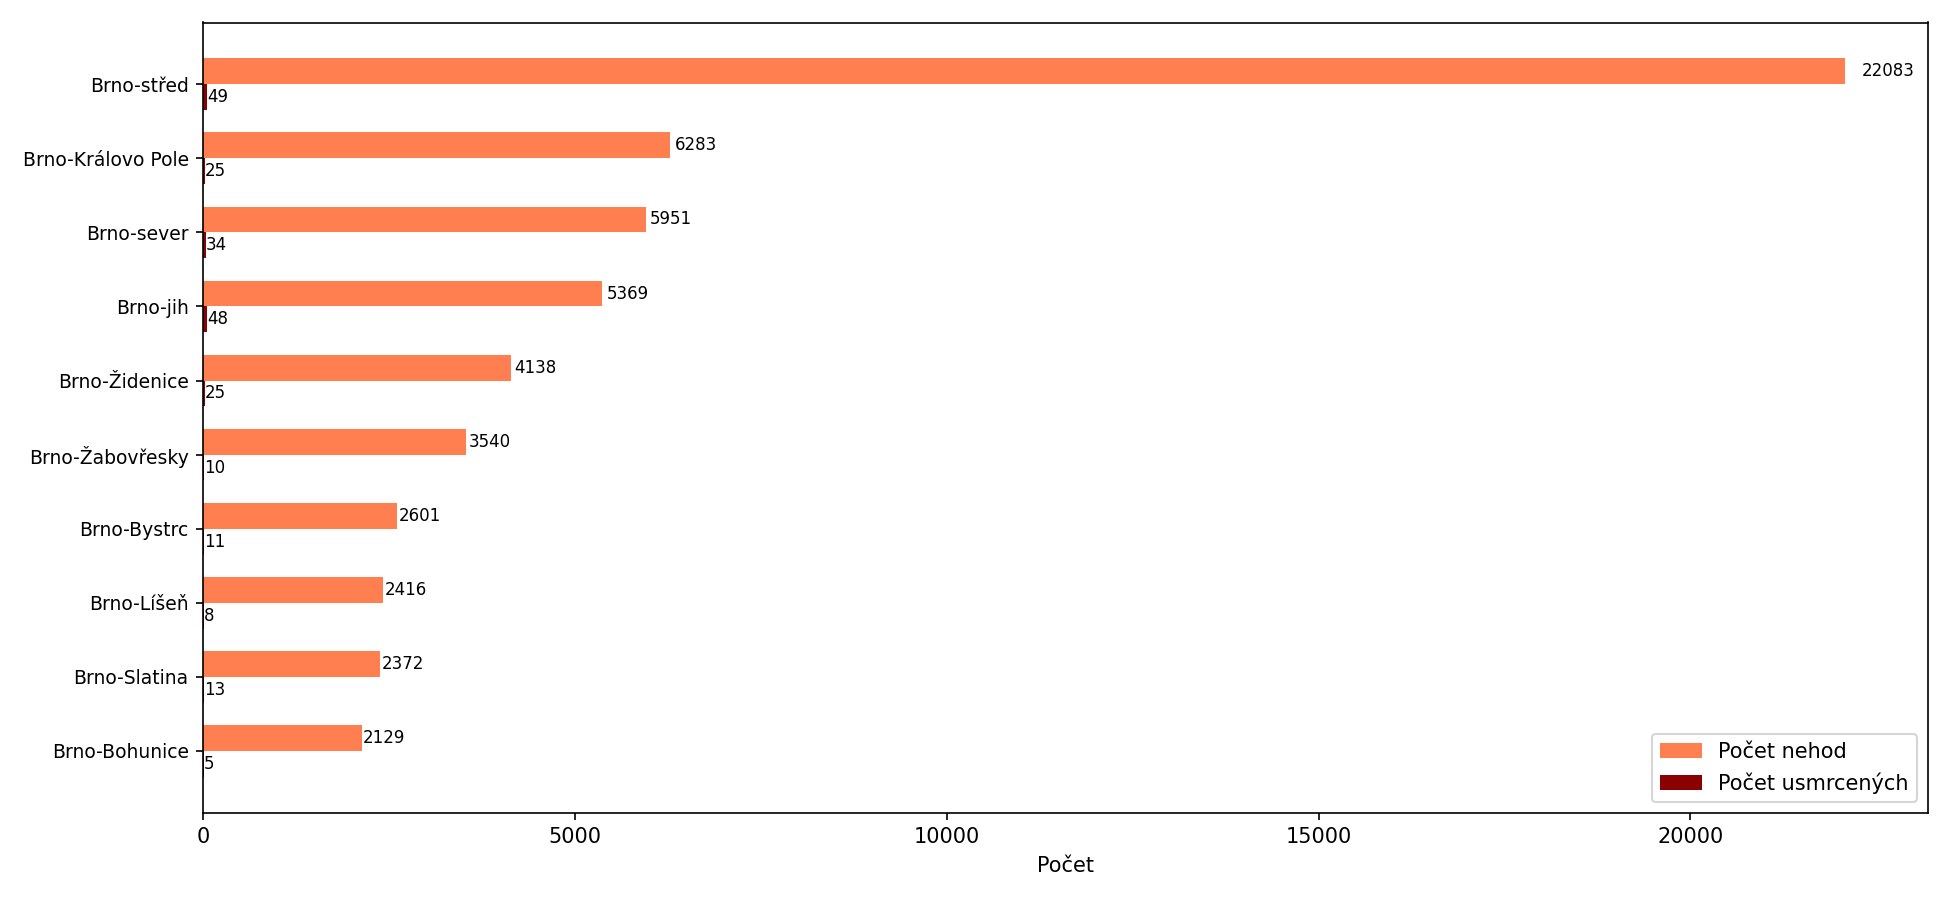
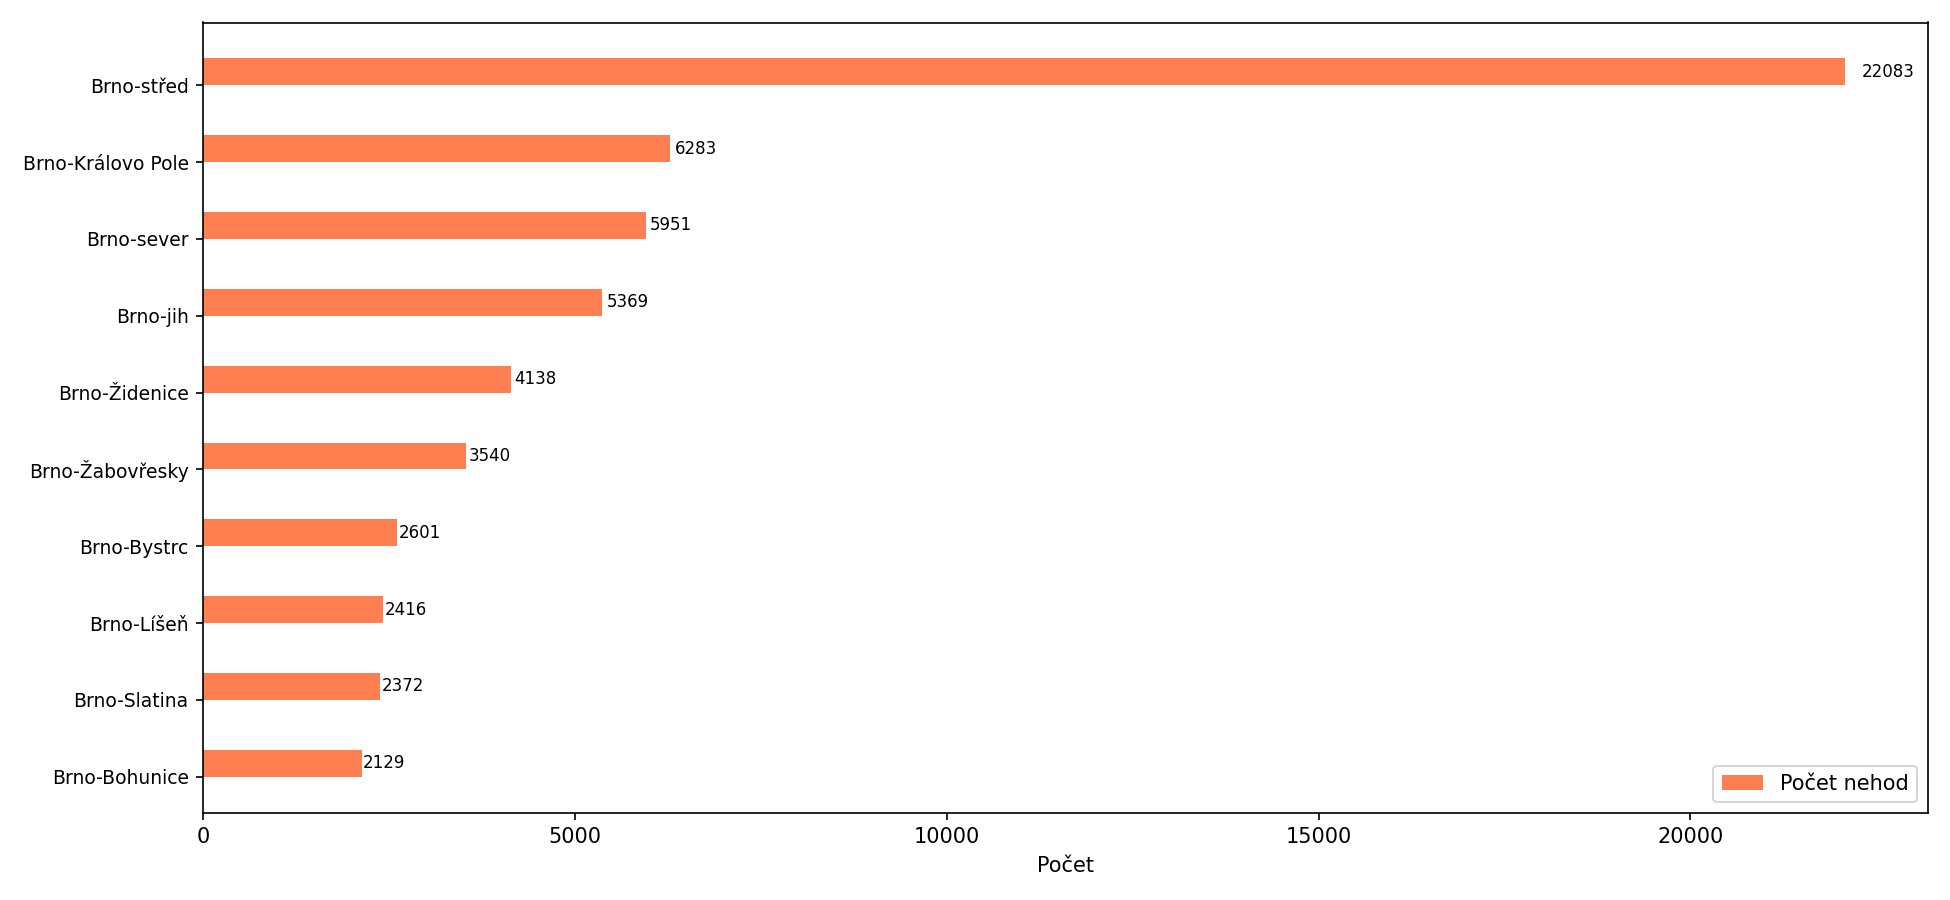
change up some graphs

diff --git a/nehodyAnalysis.py b/nehodyAnalysis.py
@@ -55,11 +55,13 @@ tiskni("ROZDĚLENÍ PODLE MĚSÍCŮ")
 tiskni("-" * 80)
 if 'mesic' in df.columns:
     mesic_stats = df['mesic'].value_counts().sort_index()
+    usmrceni_mesic = df.groupby('mesic')['usmrceno_os'].sum().sort_index()
     mesice = ['leden', 'únor', 'březen', 'duben', 'květen', 'červen',
               'červenec', 'srpen', 'září', 'říjen', 'listopad', 'prosinec']
     for mesic_num, pocet in mesic_stats.items():
         mesic_nazev = mesice[int(mesic_num)-1] if 1 <= mesic_num <= 12 else f"měsíc {mesic_num}"
-        tiskni(f"  {mesic_nazev}: {pocet:,} nehod")
+        usmrceni = usmrceni_mesic.get(mesic_num, 0)
+        tiskni(f"  {mesic_nazev}: {pocet:>6,} nehod, {int(usmrceni):>4} usmrcených")
 tiskni()
 
 # Denní čas
@@ -67,8 +69,10 @@ tiskni("ROZDĚLENÍ PODLE DOBY DNE")
 tiskni("-" * 80)
 if 'doba' in df.columns:
     doba_stats = df['doba'].value_counts()
+    usmrceni_doba = df.groupby('doba')['usmrceno_os'].sum()
     for doba, pocet in doba_stats.items():
-        tiskni(f"  {doba}: {pocet:,} nehod")
+        usmrceni = usmrceni_doba.get(doba, 0)
+        tiskni(f"  {doba}: {pocet:>6,} nehod, {int(usmrceni):>4} usmrcených")
 tiskni()
 
 # Den v týdnu
@@ -76,14 +80,14 @@ tiskni("ROZDĚLENÍ PODLE DNE V TÝDNU")
 tiskni("-" * 80)
 if 'den_v_tydnu' in df.columns:
     dny = ['pondělí', 'úterý', 'středa', 'čtvrtek', 'pátek', 'sobota', 'neděle']
-    den_stats = df['den_v_tydnu'].value_counts().sort_index()
-    for den_num, pocet in den_stats.items():
-        try:
-            den_int = int(den_num)
-            den_nazev = dny[den_int-1] if 1 <= den_int <= 7 else f"den {den_num}"
-        except (ValueError, TypeError, IndexError):
-            den_nazev = str(den_num)
-        tiskni(f"  {den_nazev}: {pocet:,} nehod")
+    den_stats = df['den_v_tydnu'].value_counts()
+    usmrceni_dny = df.groupby('den_v_tydnu')['usmrceno_os'].sum()
+    dny_order = ['pondělí', 'úterý', 'středa', 'čtvrtek', 'pátek', 'sobota', 'neděle']
+    for den_nazev in dny_order:
+        if den_nazev in den_stats.index:
+            pocet = den_stats[den_nazev]
+            usmrceni = usmrceni_dny.get(den_nazev, 0)
+            tiskni(f"  {den_nazev}: {pocet:>6,} nehod, {int(usmrceni):>4} usmrcených")
 tiskni()
 
 # Top lokality
@@ -103,6 +107,18 @@ if 'hlavni_pricina' in df.columns:
     for pricina, pocet in priciny.items():
         procento = (pocet / len(df)) * 100
         tiskni(f"  {pricina:35} {pocet:>6,} ({procento:>5.2f}%)")
+tiskni()
+
+# Zavinění
+tiskni("NEHODY A USMRCENÍ PODLE ZAVINĚNÍ")
+tiskni("-" * 80)
+if 'zavineni' in df.columns:
+    zavineni_stats = df['zavineni'].value_counts()
+    usmrceni_zavineni = df.groupby('zavineni')['usmrceno_os'].sum()
+    for zavineni, pocet in zavineni_stats.items():
+        usmrceni = usmrceni_zavineni.get(zavineni, 0)
+        procento = (pocet / len(df)) * 100
+        tiskni(f"  {zavineni:30} {pocet:>6,} nehod ({procento:>5.2f}%), {int(usmrceni):>4} usmrcených")
 tiskni()
 
 # Alkohol
@@ -190,13 +206,10 @@ plt.close()
 # Graf 2: Top 10 lokalit
 fig2, ax2 = plt.subplots(figsize=(13, 6))
 top_10 = df['zuj'].value_counts().head(10)
-usmrceni_lokality = df.groupby('zuj')['usmrceno_os'].sum().reindex(top_10.index)
 
 y_pos = range(len(top_10))
 width = 0.35
 bars1 = ax2.barh([i - width/2 for i in y_pos], top_10.values, width, label='Počet nehod', color='coral')
-bars2 = ax2.barh([i + width/2 for i in y_pos], usmrceni_lokality.values, width, label='Počet usmrcených', color='darkred')
-
 ax2.set_yticks(y_pos)
 ax2.set_yticklabels(top_10.index, fontsize=9)
 ax2.set_xlabel('Počet')
@@ -207,14 +220,66 @@ for bar, value in zip(bars1, top_10.values):
     width = bar.get_width()
     ax2.text(width * 1.01, bar.get_y() + bar.get_height()/2,
              f"{value:}", va='center', ha='left', fontsize=8)
-for bar, value in zip(bars2, usmrceni_lokality.values):
-    width = bar.get_width()
-    ax2.text(width * 1.01, bar.get_y() + bar.get_height()/2,
-             f"{value:}", va='center', ha='left', fontsize=8)
 
 plt.tight_layout()
 plt.savefig("graphs/nehody/nehody_top_lokality.png", dpi=150)
 print("Graf 2: graphs/nehody/nehody_top_lokality.png")
+plt.close()
+
+# Graf 2b: Top 10 lokalit podle počtu usmrcených
+fig2b, ax2b = plt.subplots(figsize=(14, 6))
+top_10_usmrceni = df.groupby('zuj')['usmrceno_os'].sum().nlargest(10)
+
+y_pos = range(len(top_10_usmrceni))
+width = 0.35
+bars2 = ax2b.barh([i + width/2 for i in y_pos], top_10_usmrceni.values, width, label='Počet usmrcených', color='darkred')
+
+ax2b.set_yticks(y_pos)
+ax2b.set_yticklabels(top_10_usmrceni.index, fontsize=9)
+ax2b.set_xlabel('Počet usmrcených')
+ax2b.legend()
+ax2b.invert_yaxis()
+
+for bar, usmr in zip(bars2, top_10_usmrceni.values):
+    width = bar.get_width()
+    ax2b.text(width * 1.01, bar.get_y() + bar.get_height()/2,
+              f"{int(usmr)}", va='center', ha='left', fontsize=8)
+
+plt.tight_layout()
+plt.savefig("graphs/nehody/nehody_top_lokality_usmrceni.png", dpi=150)
+print("Graf 2b: graphs/nehody/nehody_top_lokality_usmrceni.png")
+plt.close()
+
+# Graf 2c: Top 10 lokalit - procento usmrcených na nehodu (podle procent)
+fig2c, ax2c = plt.subplots(figsize=(14, 6))
+all_procenta = df.groupby('zuj')['usmrceno_os'].sum() / df['zuj'].value_counts() * 100
+top_10_procenta = all_procenta.nlargest(10)
+pocet_nehod_top = df['zuj'].value_counts().reindex(top_10_procenta.index)
+usmrceni_top = df.groupby('zuj')['usmrceno_os'].sum().reindex(top_10_procenta.index)
+
+y_pos = range(len(top_10_procenta))
+bars3 = ax2c.barh(y_pos, top_10_procenta.values, height=0.6, color='darkred')
+
+ax2c.set_yticks(y_pos)
+ax2c.set_yticklabels(top_10_procenta.index, fontsize=9)
+ax2c.set_xlabel('Procento usmrcených na nehodu (%)')
+ax2c.invert_yaxis()
+
+for bar, procento, nehod, usmr in zip(bars3, top_10_procenta.values, pocet_nehod_top.values, usmrceni_top.values):
+    width = bar.get_width()
+    ratio = usmr / nehod if nehod else 0
+    ax2c.text(
+        width * 1.01,
+        bar.get_y() + bar.get_height() / 2,
+        f"{procento:.2f}% \n({int(usmr)}/{int(nehod)})",
+        va='center',
+        ha='left',
+        fontsize=7
+    )
+
+plt.tight_layout()
+plt.savefig("graphs/nehody/nehody_top_lokality_procenta_usmrceni.png", dpi=150)
+print("Graf 2c: graphs/nehody/nehody_top_lokality_procenta_usmrceni.png")
 plt.close()
 
 # Graf 3: Hlavní příčiny
@@ -305,30 +370,98 @@ if 'den_v_tydnu' in df.columns:
     print("Graf 5: graphs/nehody/nehody_podle_dne.png")
     plt.close()
 
-# Graf 6: Mapa nehod (pokud jsou souřadnice)
+# Graf 6: Nehody podle času ve dne (hodinové intervaly)
+if 'hodina' in df.columns:
+    # Filtrovat: vzít jen platné hodiny (0-23), vyloučit 25 a NaN
+    df_cas = df[(df['hodina'].notna()) & (df['hodina'] < 24)].copy()
+    df_cas['hodina_int'] = df_cas['hodina'].astype(int)
+    
+    fig6, ax6 = plt.subplots(figsize=(14, 6))
+    cas_data = df_cas['hodina_int'].value_counts().sort_index()
+    usmrceni_cas = df_cas.groupby('hodina_int')['usmrceno_os'].sum().sort_index()
+    
+    x = range(len(cas_data))
+    width = 0.35
+    bars1 = ax6.bar([i - width/2 for i in x], cas_data.values, width, label='Počet nehod', color='coral')
+    bars2 = ax6.bar([i + width/2 for i in x], usmrceni_cas.values, width, label='Počet usmrcených', color='darkred')
+    
+    ax6.set_xticks(x)
+    ax6.set_xticklabels([f"{int(h):02d}:00" for h in cas_data.index], rotation=45, ha='right')
+    ax6.set_xlabel('Čas')
+    ax6.set_ylabel('Počet')
+    ax6.legend()
+    ax6.grid(axis='y', alpha=0.3)
+    
+    for bar, value in zip(bars1, cas_data.values):
+        height = bar.get_height()
+        ax6.text(bar.get_x() + bar.get_width()/2, height * 1.005, f"{value:}", ha='center', va='bottom', fontsize=7)
+    for bar, value in zip(bars2, usmrceni_cas.values):
+        height = bar.get_height()
+        ax6.text(bar.get_x() + bar.get_width()/2, height * 1.005, f"{value:}", ha='center', va='bottom', fontsize=7)
+    
+    plt.tight_layout()
+    plt.savefig("graphs/nehody/nehody_podle_casu.png", dpi=150)
+    print("Graf 6: graphs/nehody/nehody_podle_casu.png")
+    plt.close()
+
+# Graf 7: Typ auta účastníků nehody
+if 'typ_vozidla' in df.columns or 'vozidlo' in df.columns:
+    fig7, ax7 = plt.subplots(figsize=(12, 7))
+    
+    # Pokus najít správný sloupec
+    vozidlo_col = 'typ_vozidla' if 'typ_vozidla' in df.columns else 'vozidlo'
+    typ_data = df[vozidlo_col].value_counts().head(15)
+    usmrceni_typ = df.groupby(vozidlo_col)['usmrceno_os'].sum().reindex(typ_data.index)
+    
+    x = range(len(typ_data))
+    width = 0.35
+    bars1 = ax7.barh([i - width/2 for i in x], typ_data.values, width, label='Počet nehod', color='coral')
+    bars2 = ax7.barh([i + width/2 for i in x], usmrceni_typ.values, width, label='Počet usmrcených', color='darkred')
+    
+    ax7.set_yticks(x)
+    ax7.set_yticklabels(typ_data.index, fontsize=9)
+    ax7.set_xlabel('Počet')
+    ax7.legend()
+    ax7.invert_yaxis()
+    
+    for bar, value in zip(bars1, typ_data.values):
+        width = bar.get_width()
+        ax7.text(width * 1.01, bar.get_y() + bar.get_height()/2,
+                 f"{value:}", va='center', ha='left', fontsize=8)
+    for bar, value in zip(bars2, usmrceni_typ.values):
+        width = bar.get_width()
+        ax7.text(width * 1.01, bar.get_y() + bar.get_height()/2,
+                 f"{value:}", va='center', ha='left', fontsize=8)
+    
+    plt.tight_layout()
+    plt.savefig("graphs/nehody/nehody_typ_vozidla.png", dpi=150)
+    print("Graf 7: graphs/nehody/nehody_typ_vozidla.png")
+    plt.close()
+
+# Graf 8: Mapa nehod (pokud jsou souřadnice)
 if 'x' in df.columns and 'y' in df.columns:
     valid_coords = df[(df['x'].notna()) & (df['y'].notna())].copy()
     if len(valid_coords) > 0:
-        fig6, ax6 = plt.subplots(figsize=(12, 10))
+        fig8, ax8 = plt.subplots(figsize=(12, 10))
         
         # Vzorkování pro rychlejší zobrazení
         sample_size = min(10000, len(valid_coords))
         sample = valid_coords.sample(sample_size)
         
         from matplotlib.colors import PowerNorm
-        scatter = ax6.scatter(sample['x'], sample['y'], 
+        scatter = ax8.scatter(sample['x'], sample['y'], 
                            c=sample['usmrceno_os'], 
                            cmap='magma_r', 
                            norm=PowerNorm(gamma=0.25),
                            alpha=0.4, 
                            s=5)
-        ax6.set_xlabel('X souřadnice')
-        ax6.set_ylabel('Y souřadnice')
-        cbar = plt.colorbar(scatter, label='Počet usmrcených', ax=ax6)
+        ax8.set_xlabel('X souřadnice')
+        ax8.set_ylabel('Y souřadnice')
+        cbar = plt.colorbar(scatter, label='Počet usmrcených', ax=ax8)
         cbar.ax.yaxis.set_major_locator(plt.MaxNLocator(integer=True))
         plt.tight_layout()
         plt.savefig("graphs/nehody/nehody_mapa.png", dpi=150)
-        print("Graf 6: graphs/nehody/nehody_mapa.png")
+        print("Graf 8: graphs/nehody/nehody_mapa.png")
         plt.close()
 
 output_file.close()
